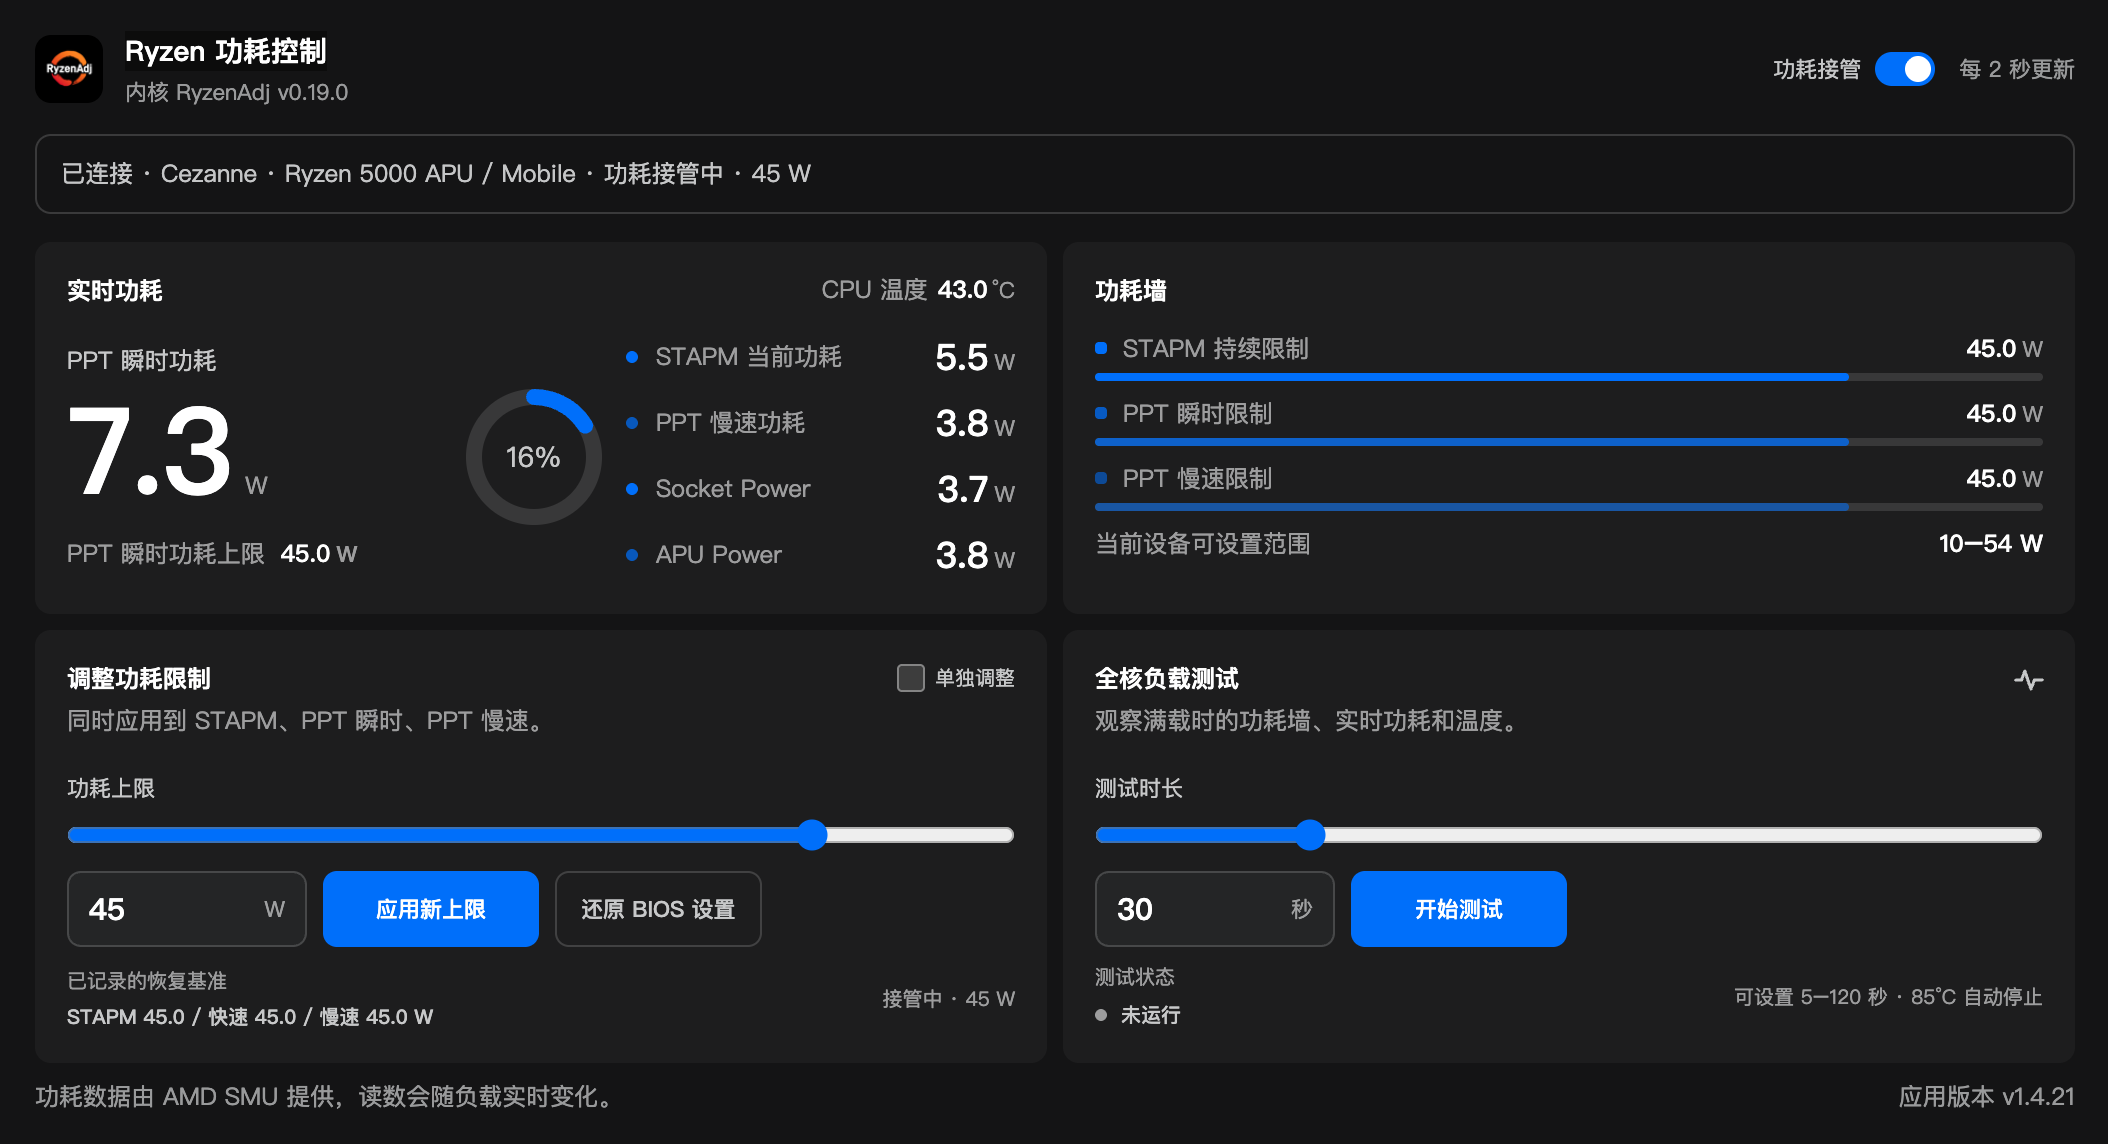
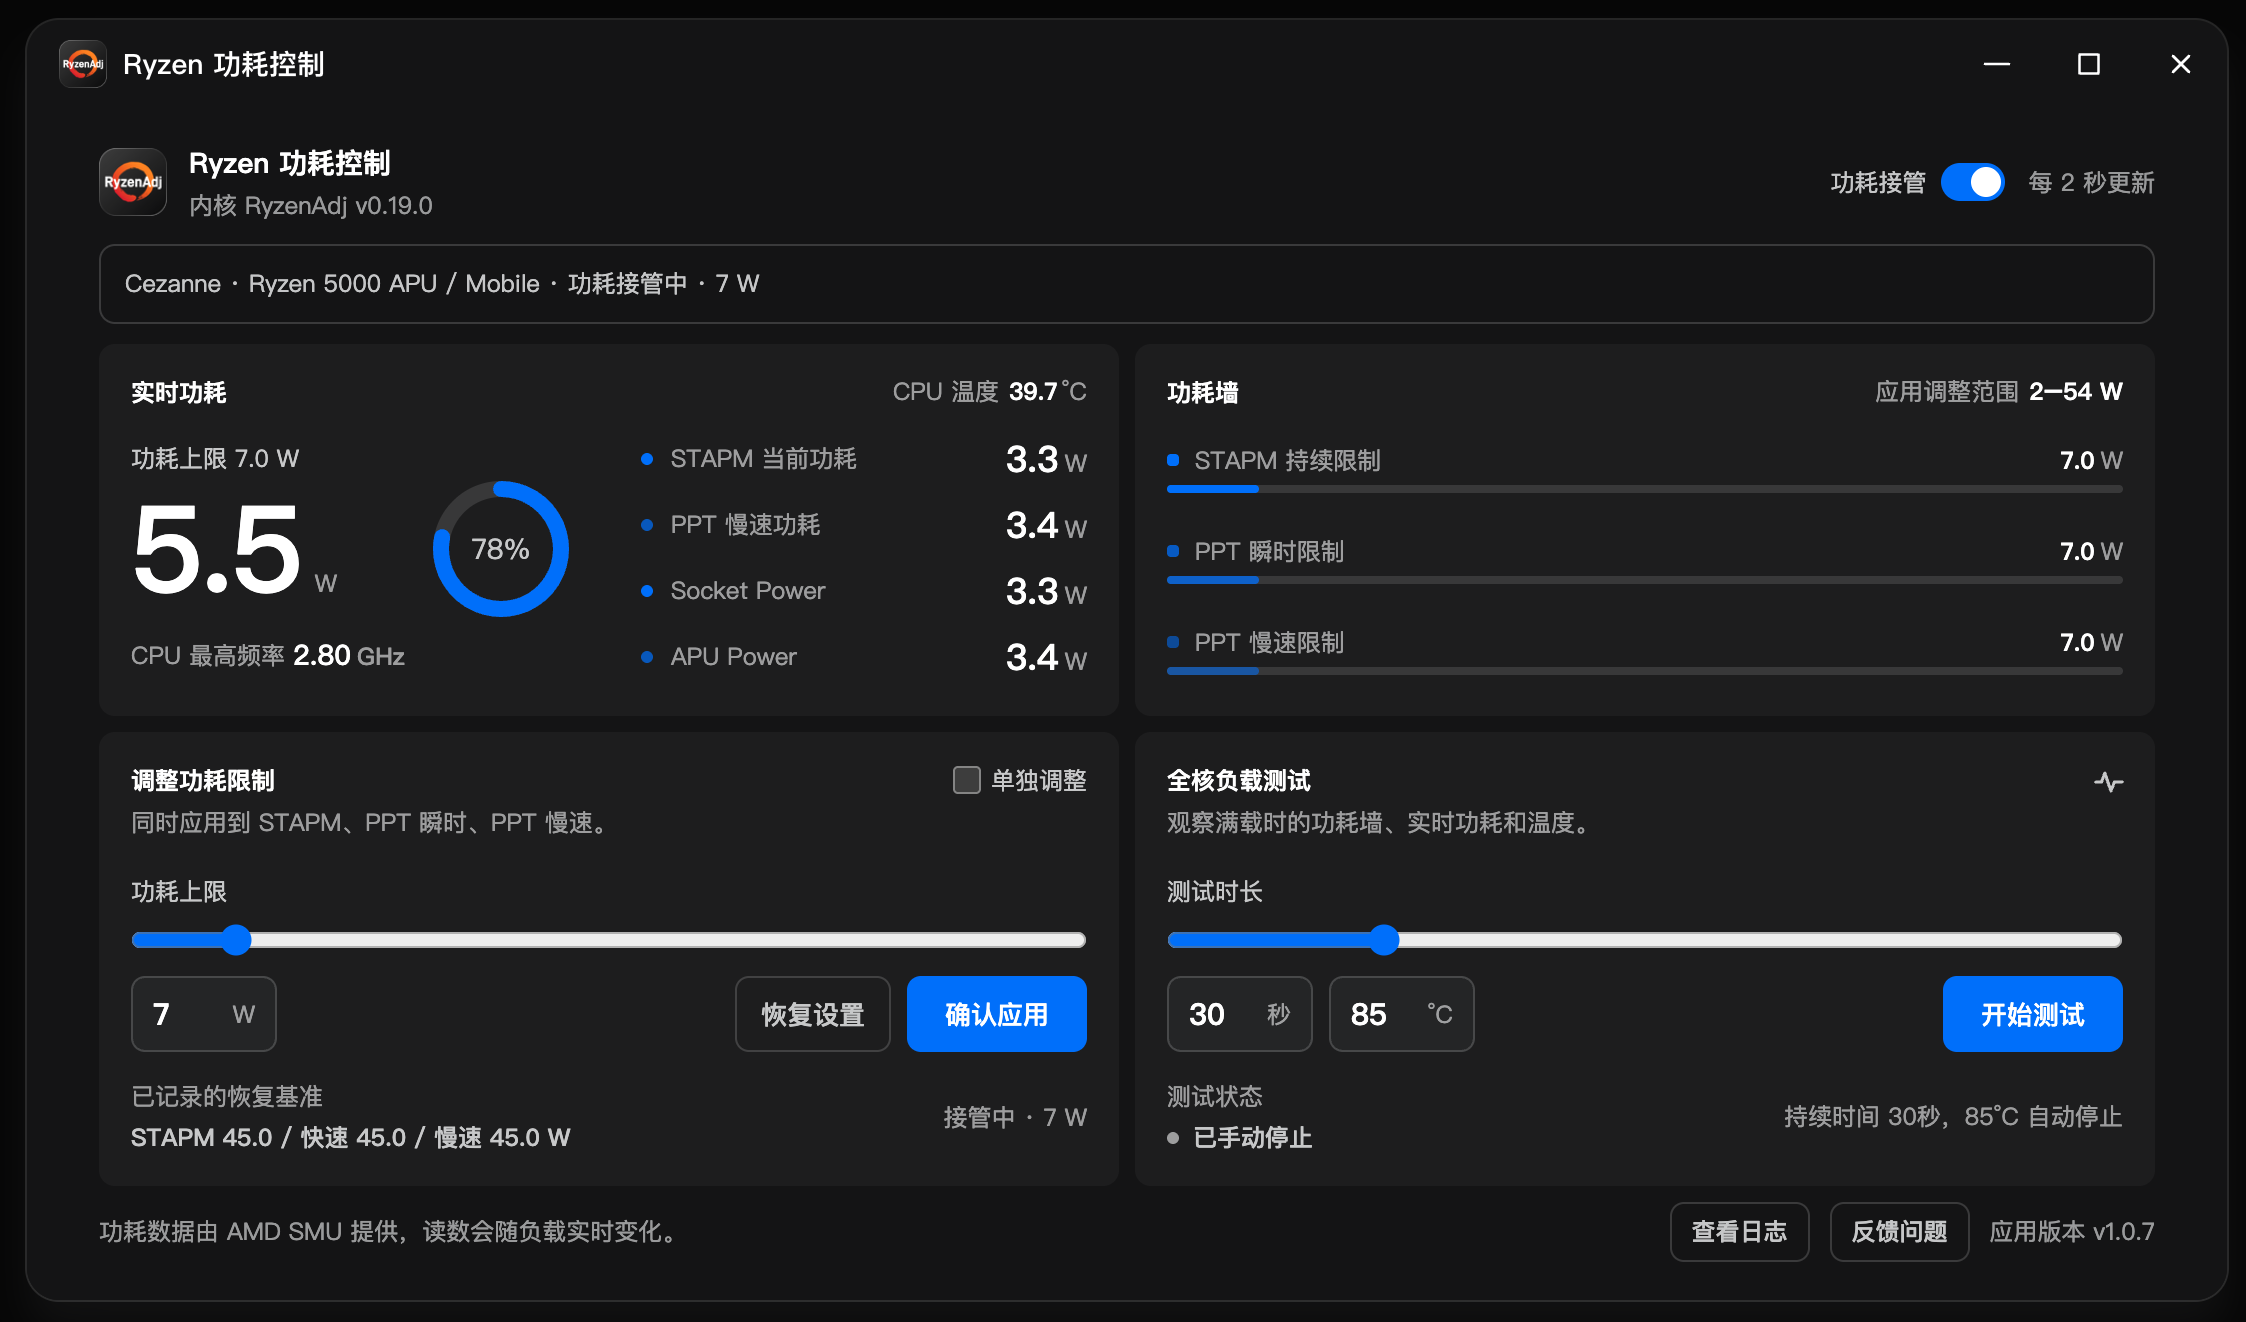
Update README and poster screenshots for 1.0.7

diff --git a/README.md b/README.md
@@ -4,7 +4,7 @@
 
 ## 应用截图
 
-![功耗控制界面与新版本提醒](screenshots/power-control-update-available.png)
+![功耗控制界面](screenshots/power-control-update-available.png)
 
 ![功耗上限应用成功状态](screenshots/power-control-applied.png)
 
